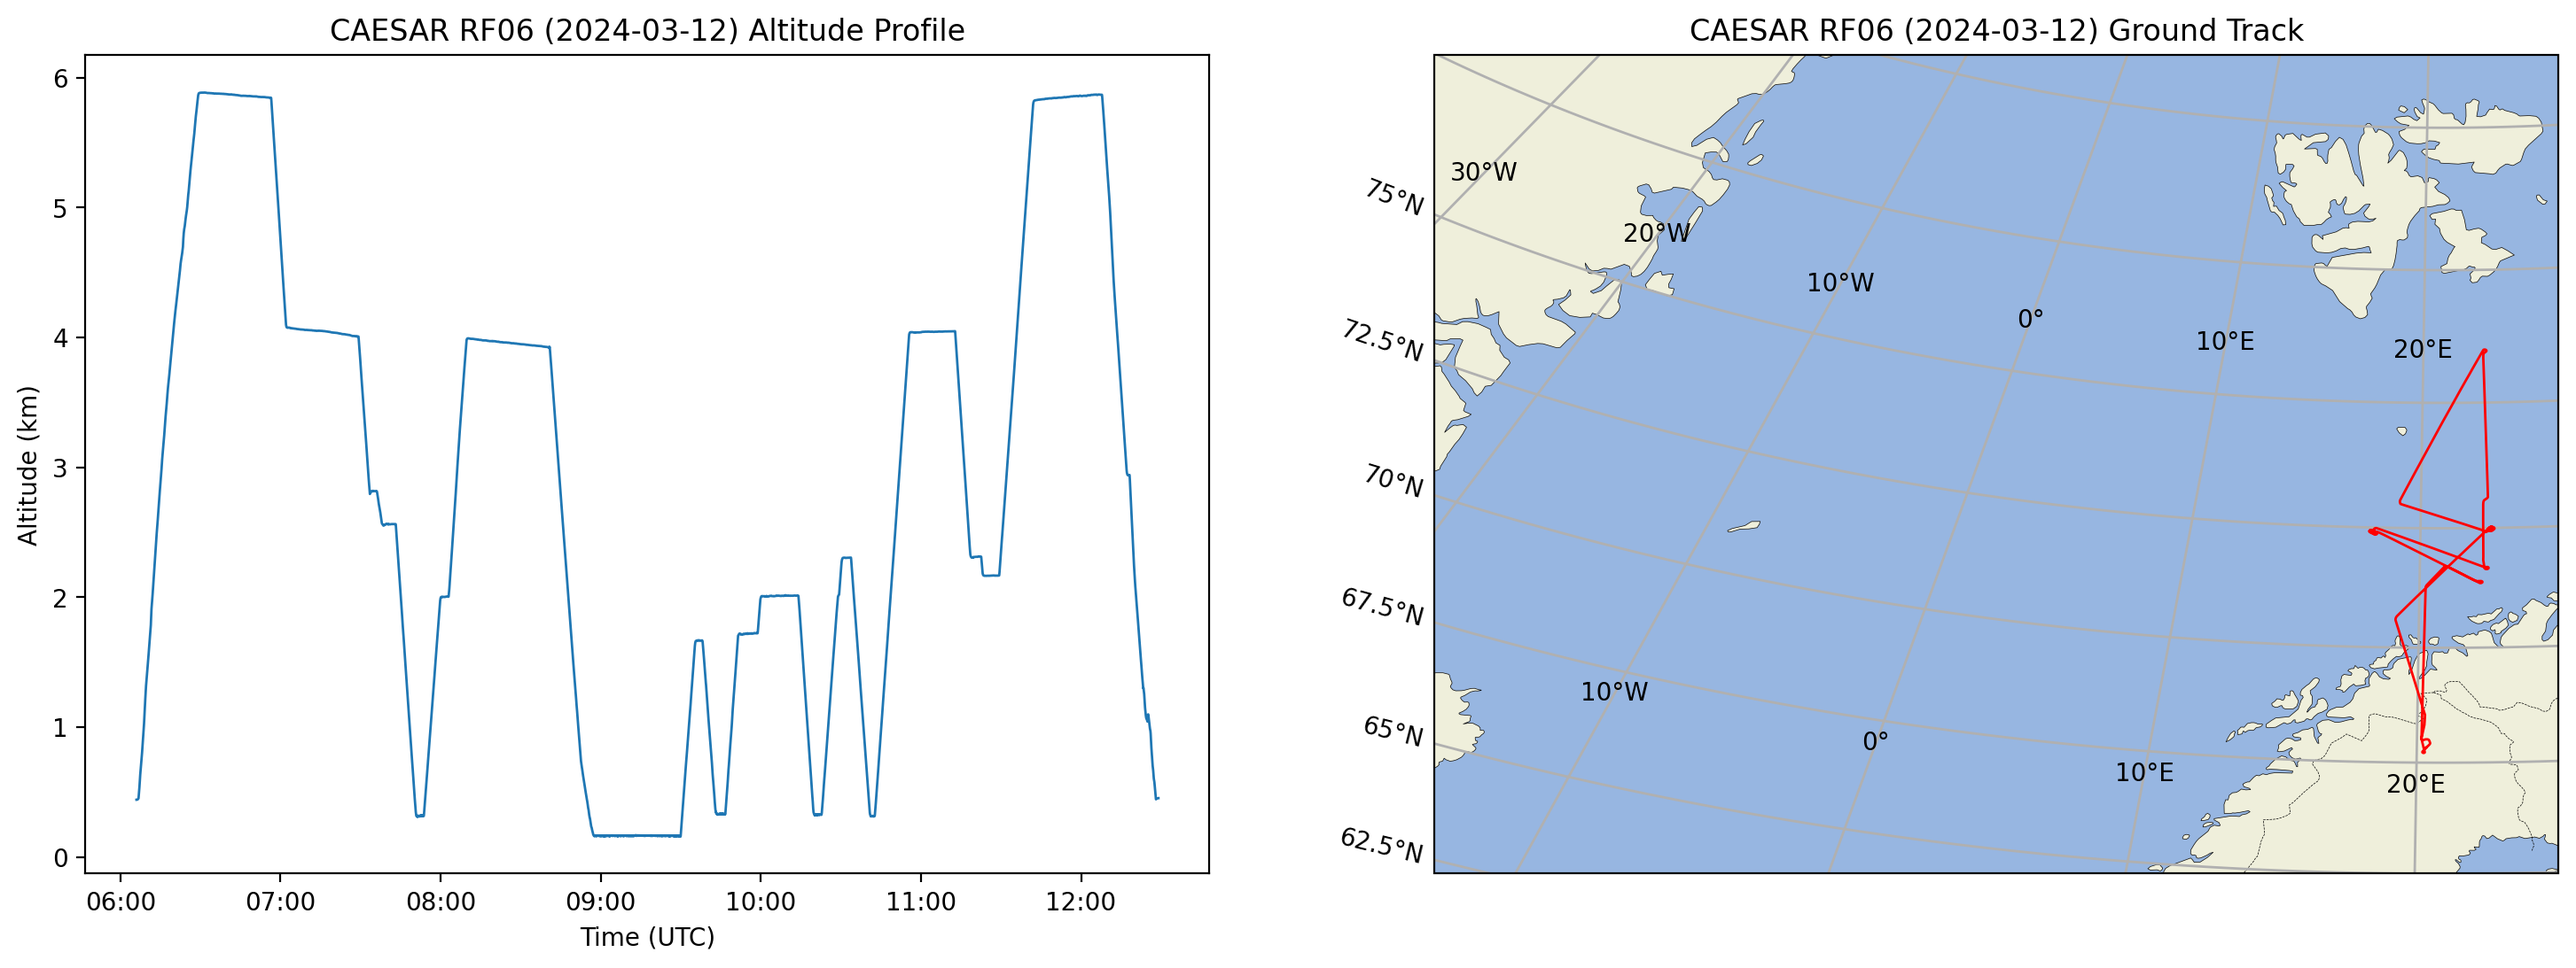
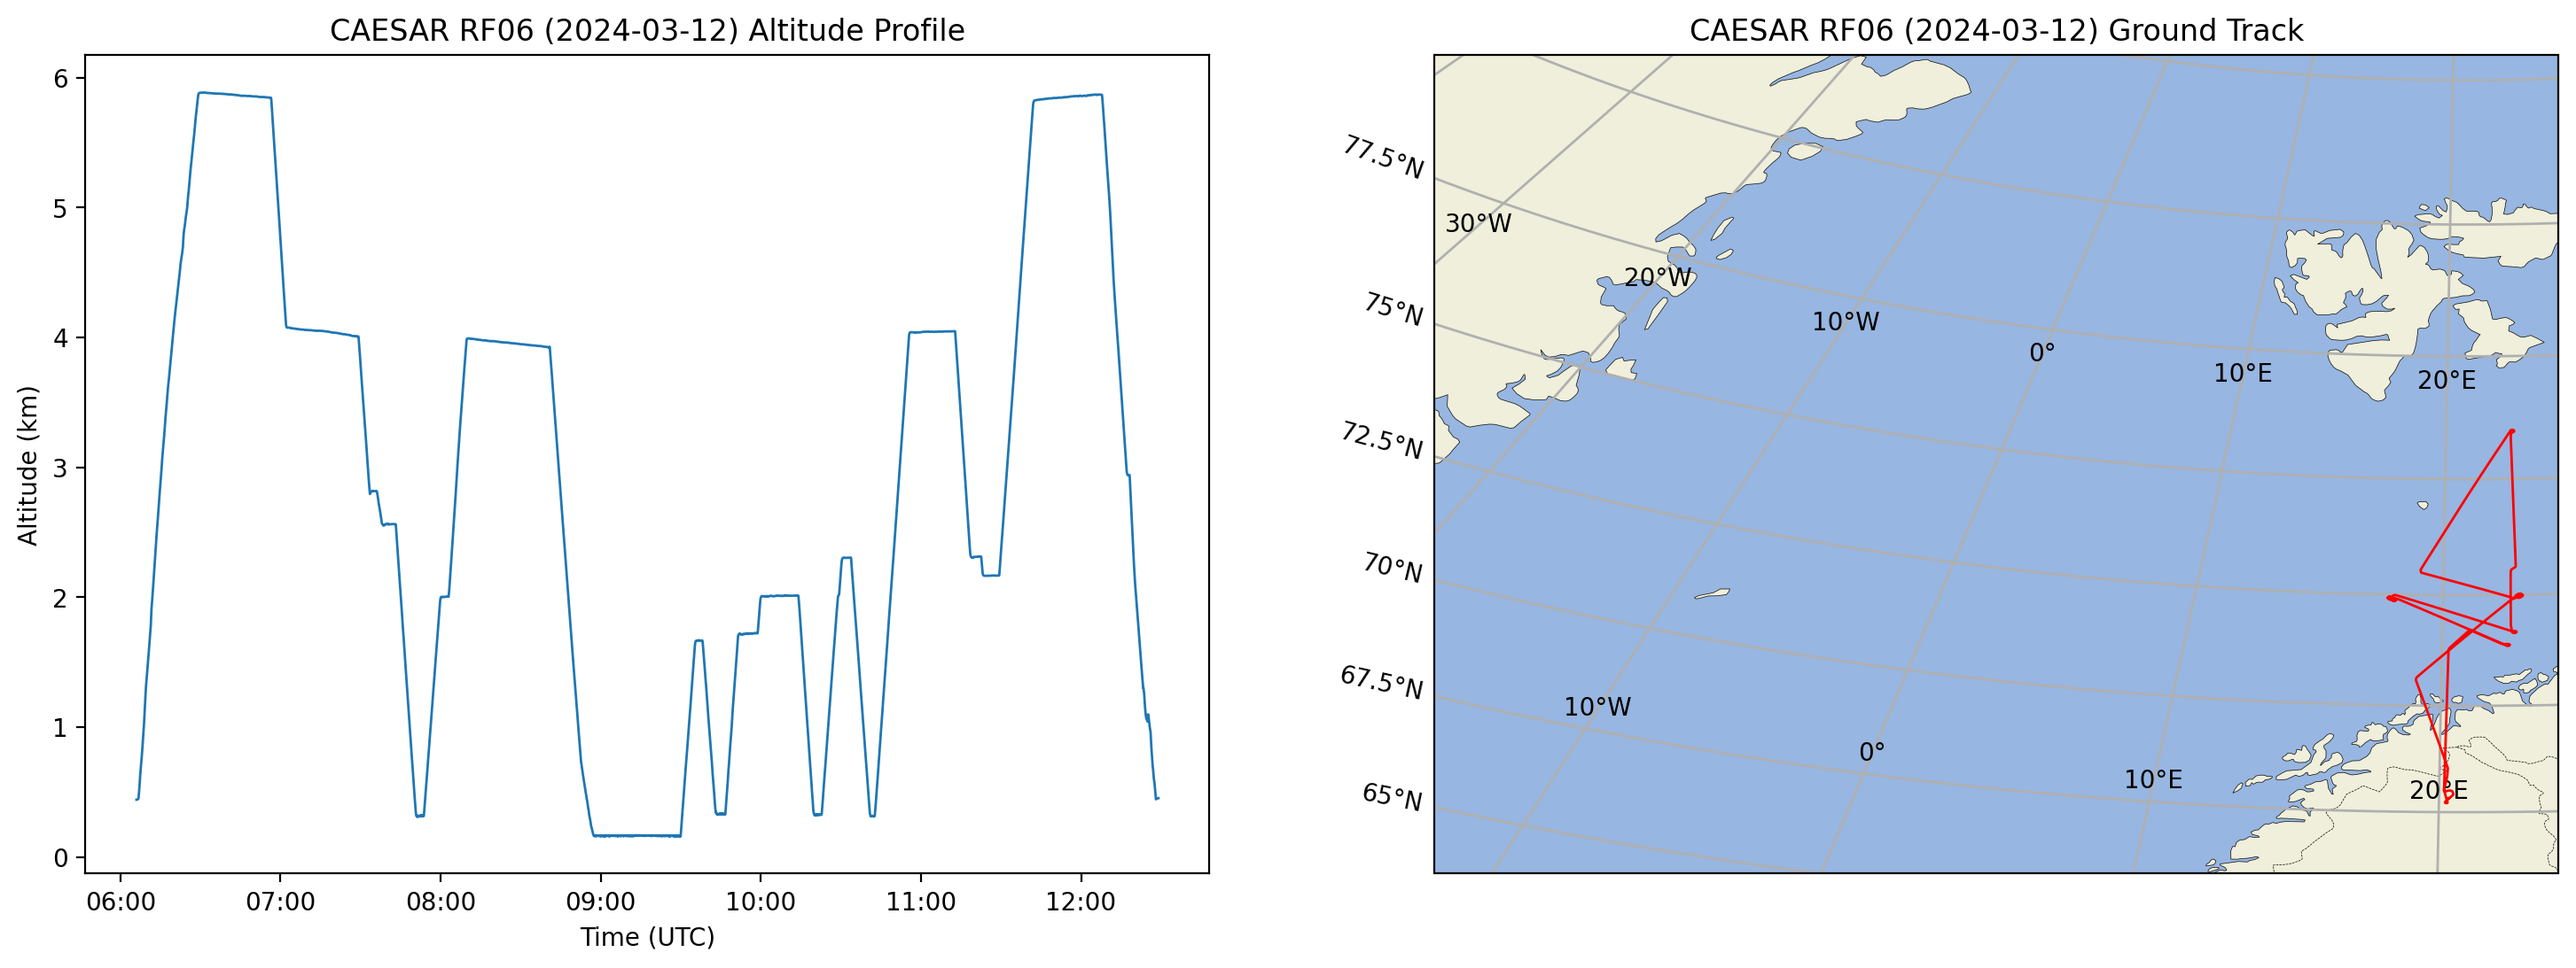
refactor bounds

diff --git a/src/ds_638_001/plot_summary.py b/src/ds_638_001/plot_summary.py
@@ -8,16 +8,11 @@ import seaborn as sns
 
 from ds_638_001.summary import construct_df
 from nc.flights import FLIGHTS
+from nc.flights import CAESAR_BOUNDS as bounds
 from nc.loader import PROJECT_ROOT, open_dataset
 from nc.vars import DS_638_001 as v001
 
 PLOTS_DIR = os.path.join(PROJECT_ROOT, f"output/{v001.dataset}/plots/summary")
-
-# configured by feel (reference: https://data.eol.ucar.edu/project/CAESAR)
-MIN_LAT = -15
-MAX_LAT = 25
-MIN_LON = 65
-MAX_LON = 80
 
 
 def plot_altitude(df: pl.DataFrame, ax: plt.Axes, flight_label: str) -> None:
@@ -40,8 +35,10 @@ def setup_map(ax: plt.Axes) -> None:
     gl.top_labels = False
     gl.right_labels = False
 
-    # NB: hardcoded boundaries
-    ax.set_extent([MIN_LAT, MAX_LAT, MIN_LON, MAX_LON], crs=ccrs.PlateCarree())
+    ax.set_extent(
+        [bounds["MIN_LON"], bounds["MAX_LON"], bounds["MIN_LAT"], bounds["MAX_LAT"]],
+        crs=ccrs.PlateCarree(),
+    )
     ax.set_aspect("auto")
 
 
@@ -84,8 +81,8 @@ def main():
 
     # all flights map
     map_proj = ccrs.LambertConformal(
-        central_longitude=((MAX_LAT + MIN_LAT) / 2),
-        central_latitude=((MAX_LAT + MIN_LAT) / 2),
+        central_longitude=((bounds["MAX_LON"] + bounds["MIN_LON"]) / 2),
+        central_latitude=((bounds["MAX_LAT"] + bounds["MIN_LAT"]) / 2),
     )
     fig = plt.figure(figsize=(10, 10))
     ax = fig.add_subplot(1, 1, 1, projection=map_proj)

diff --git a/src/nc/flights.py b/src/nc/flights.py
@@ -1,4 +1,10 @@
-"""Centralized flight-to-date mapping and MARLi filename resolution."""
+# reference: https://data.eol.ucar.edu/project/CAESAR
+CAESAR_BOUNDS = {
+    "MIN_LAT": 66,
+    "MAX_LAT": 82,
+    "MIN_LON": -14,
+    "MAX_LON": 24,
+}
 
 FLIGHTS = {
     "RF01": "2024-02-28",
